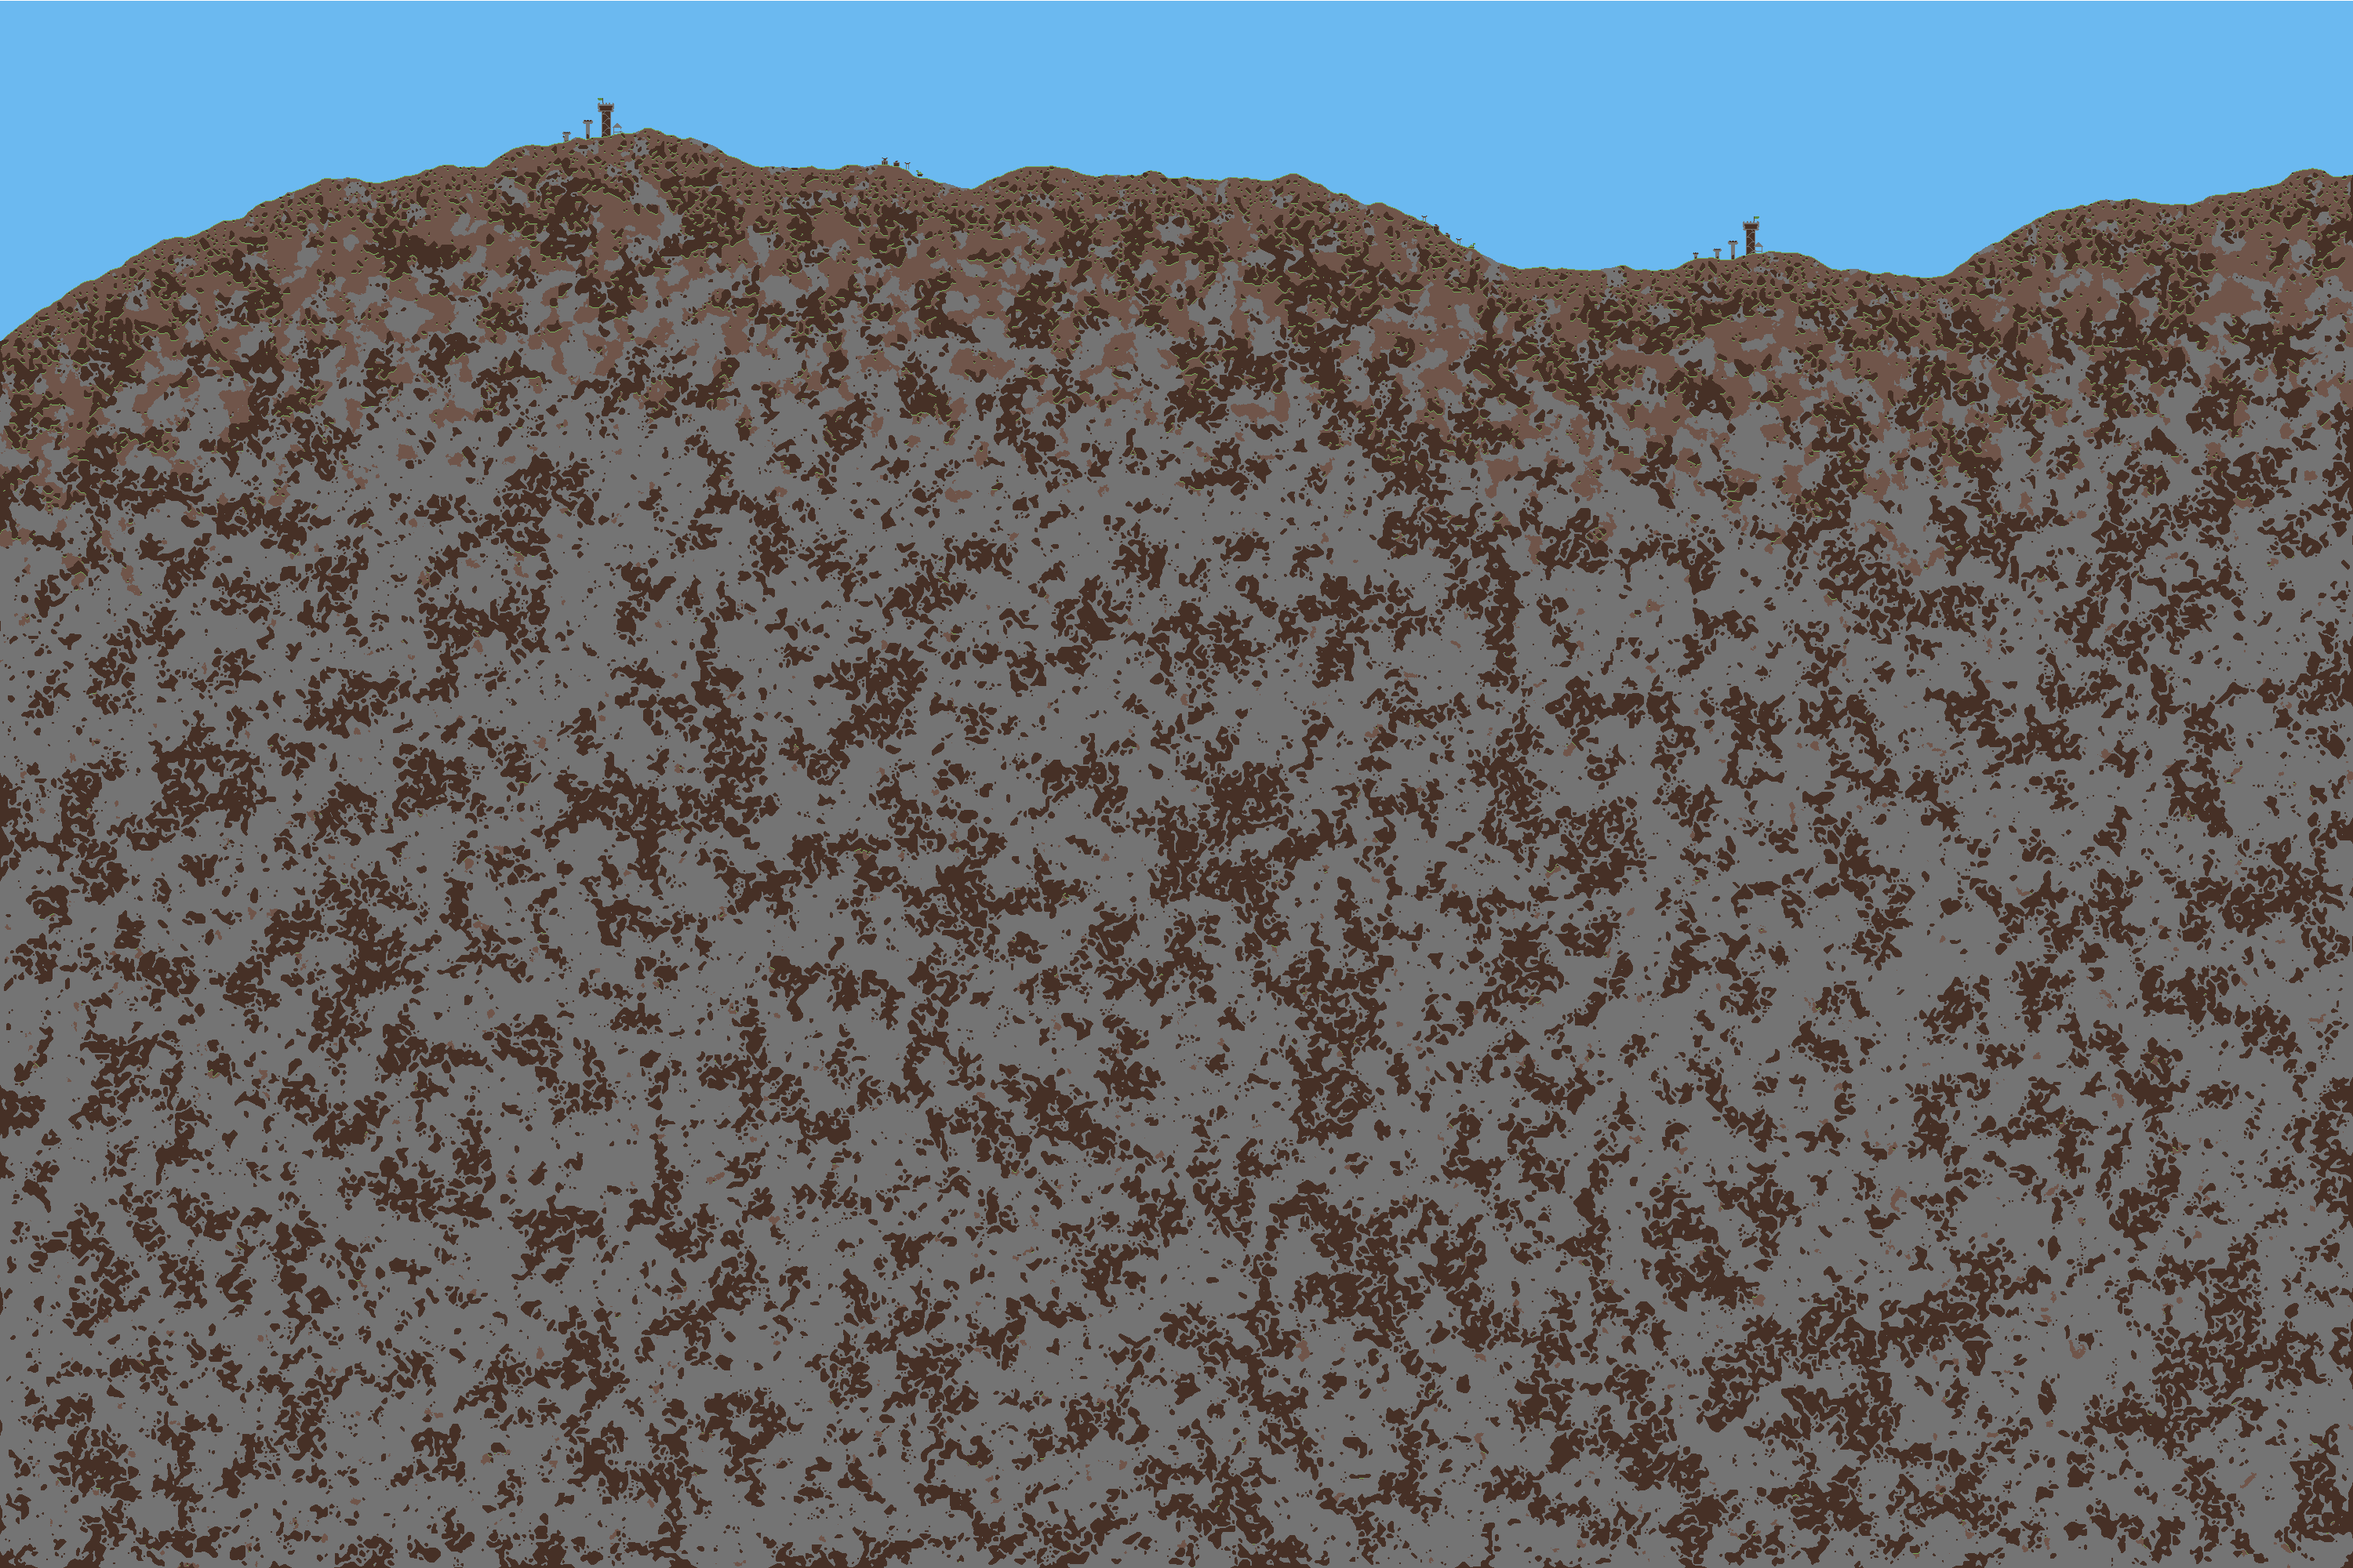
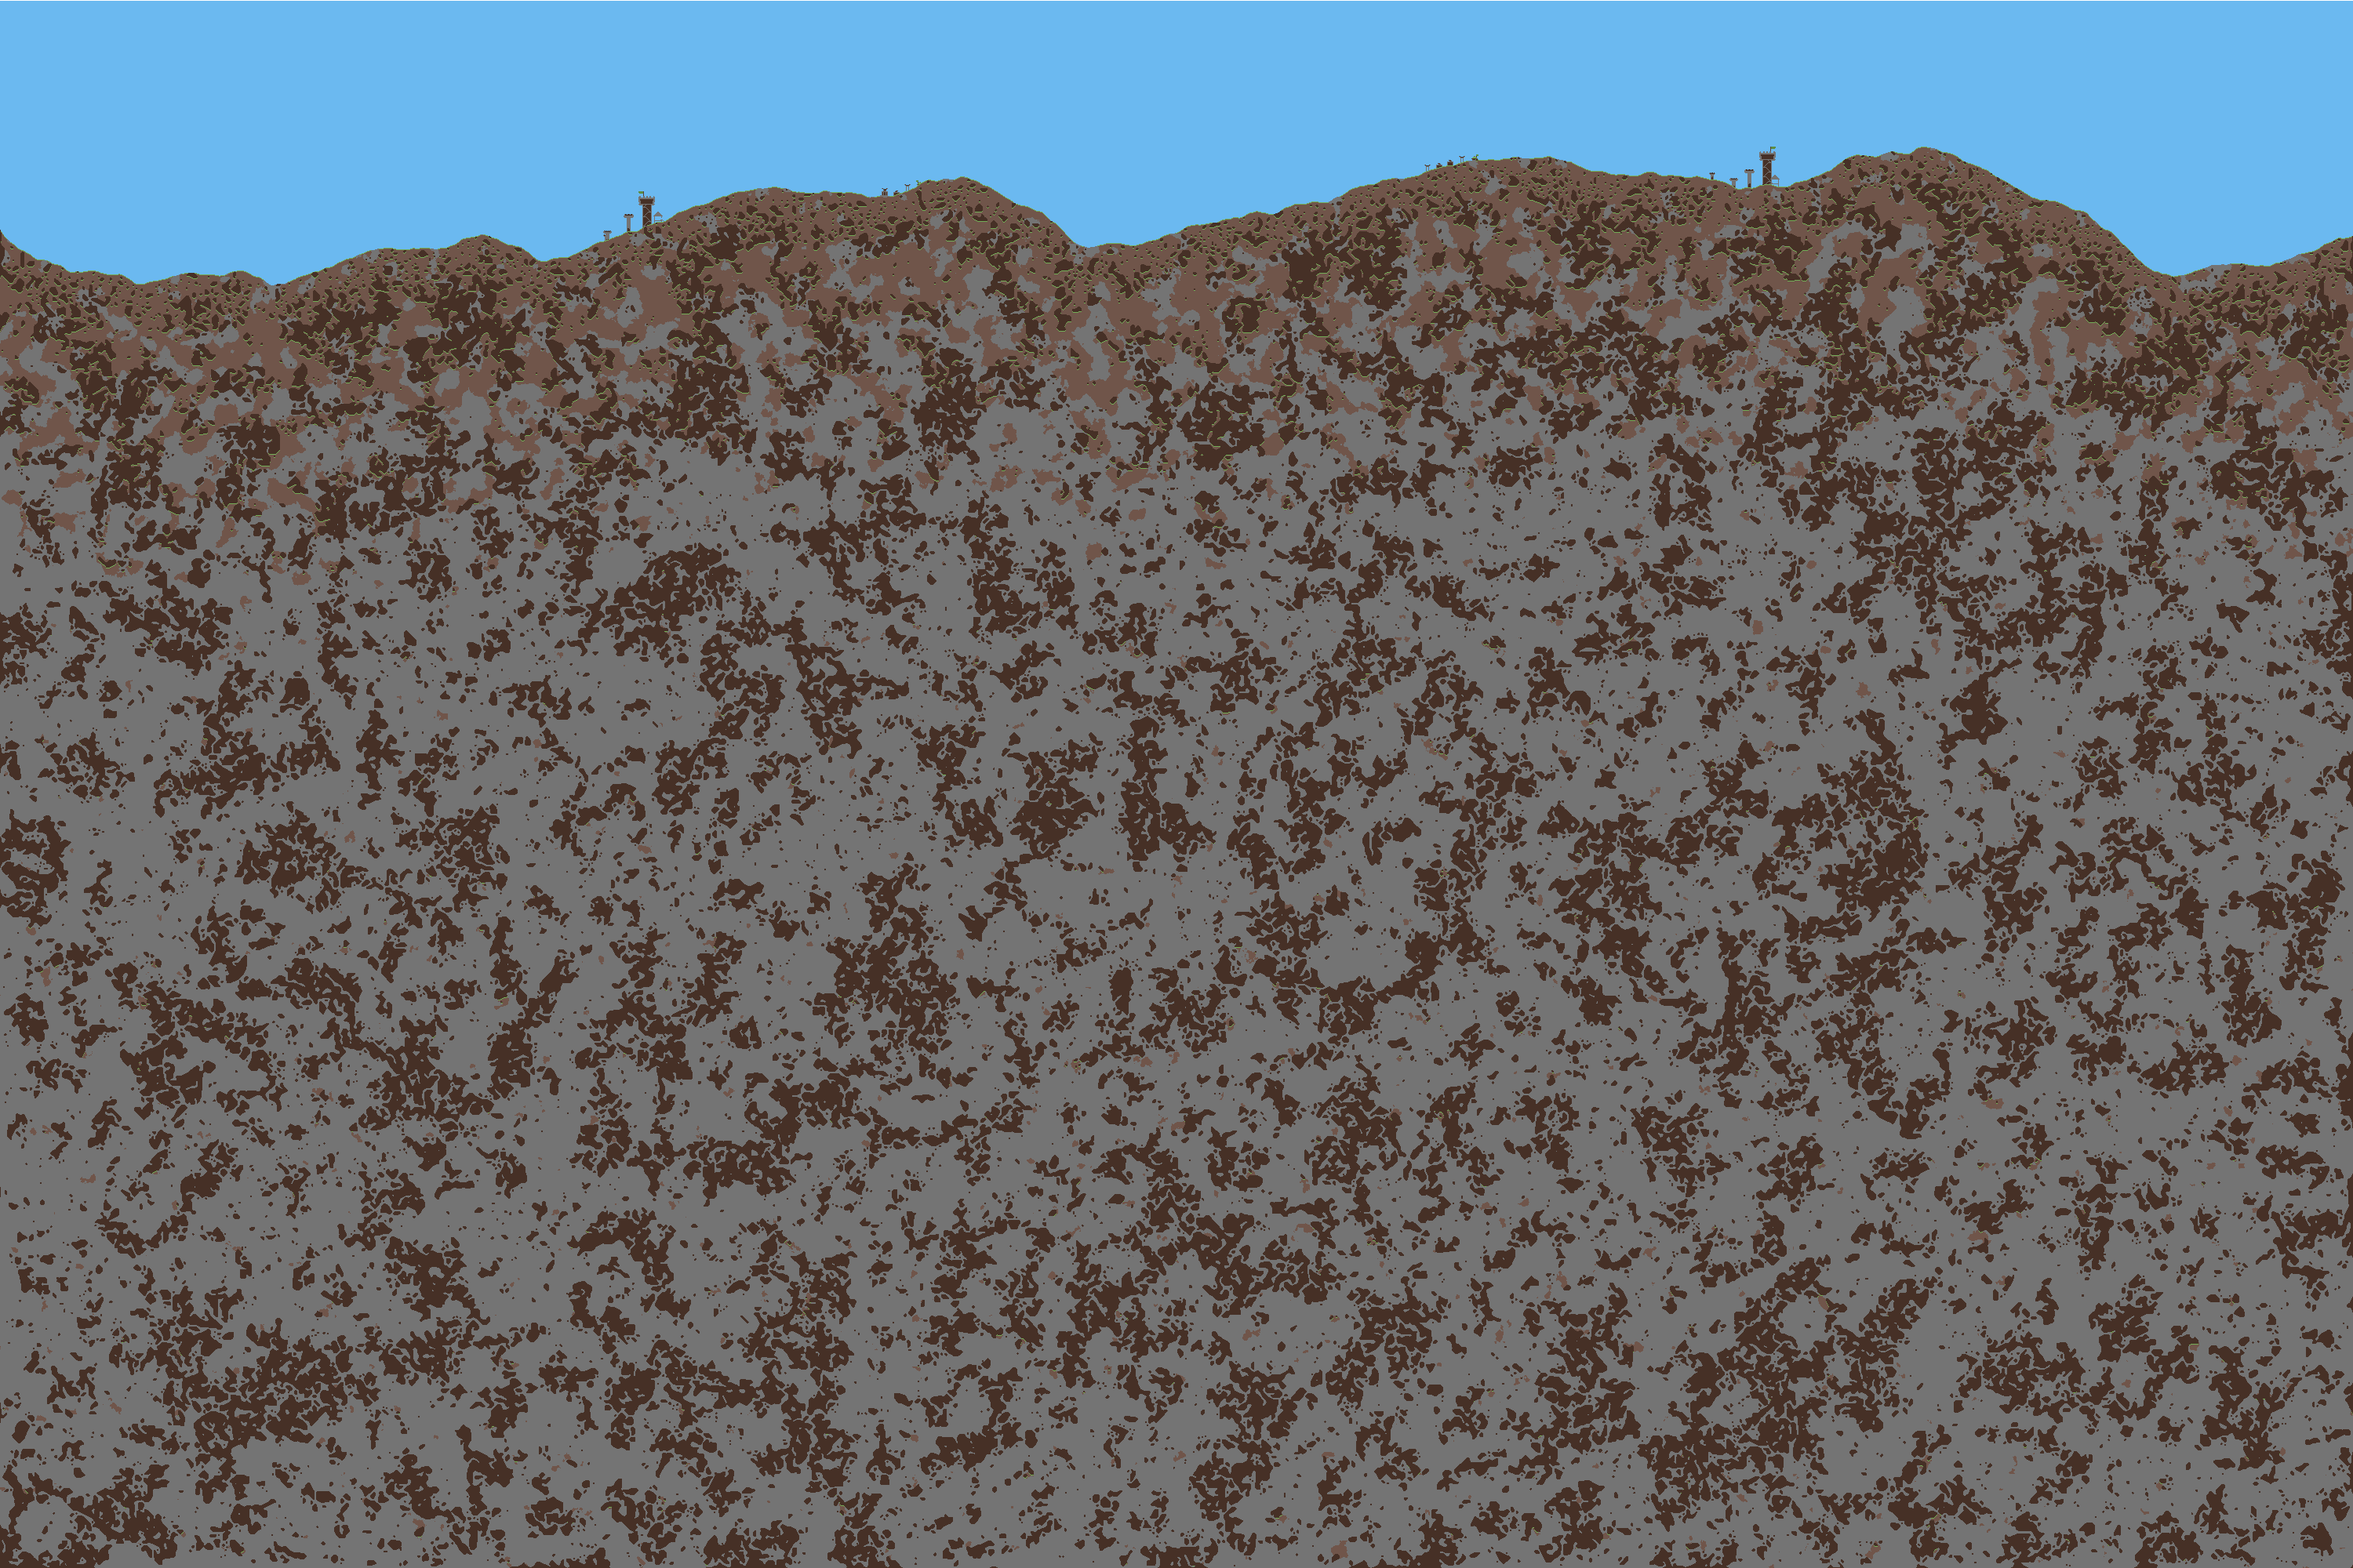
parallax

diff --git a/scene_world.go b/scene_world.go
@@ -11,6 +11,7 @@ func InitializeWorldScene() {
 	Engine.TextureControl.NewTexture("assets/backgrounds/parallax1.png", "parallax1", "pixel")
 	Engine.TextureControl.NewTexture("assets/backgrounds/parallax2.png", "parallax2", "pixel")
 	Engine.TextureControl.NewTexture("assets/backgrounds/parallax3.png", "parallax3", "pixel")
+	Engine.TextureControl.NewTexture("assets/backgrounds/parallax4.png", "parallax4", "pixel")
 
 	backgroundMaterial := Engine.MaterialControl.NewBasicMaterial()
 	backgroundMaterial.DiffuseLevel = 1
@@ -32,11 +33,16 @@ func InitializeWorldScene() {
 	backMat3.DiffuseMap = Engine.TextureControl.GetTexture("parallax3")
 	backMat3.DiffuseMapScale = float32(Config.ScreenWidth) / float32(WorldWidth*BlockSize)
 
+	backMat4 := Engine.MaterialControl.NewBasicMaterial()
+	backMat4.DiffuseLevel = 1
+	backMat4.DiffuseMap = Engine.TextureControl.GetTexture("parallax4")
+	backMat4.DiffuseMapScale = float32(Config.ScreenWidth) / float32(WorldWidth*BlockSize)
+
 	Back1Child = Engine.ChildControl.NewChild2D()
 	Back1Child.AttachMaterial(backMat1)
 	Back1Child.AttachMesh(geometry.NewRectangle())
 	Back1Child.ScaleX = float32(WorldWidth * BlockSize)
-	Back1Child.ScaleY = float32(Config.ScreenHeight) + 100
+	Back1Child.ScaleY = float32(Config.ScreenHeight)
 
 	Back2Child = Engine.ChildControl.NewChild2D()
 	Back2Child.AttachMaterial(backMat2)
@@ -49,6 +55,12 @@ func InitializeWorldScene() {
 	Back3Child.AttachMesh(geometry.NewRectangle())
 	Back3Child.ScaleX = float32(WorldWidth * BlockSize)
 	Back3Child.ScaleY = float32(Config.ScreenHeight)
+
+	Back4Child = Engine.ChildControl.NewChild2D()
+	Back4Child.AttachMaterial(backMat4)
+	Back4Child.AttachMesh(geometry.NewRectangle())
+	Back4Child.ScaleX = float32(WorldWidth * BlockSize)
+	Back4Child.ScaleY = float32(Config.ScreenHeight)
 
 	SkyChild = Engine.ChildControl.NewChild2D()
 	SkyChild.AttachMaterial(backgroundMaterial)
@@ -107,6 +119,7 @@ func InitializeWorldScene() {
 
 	WorldScene.InstanceChild(SkyChild)
 
+	WorldScene.InstanceChild(Back4Child)
 	WorldScene.InstanceChild(Back3Child)
 	WorldScene.InstanceChild(Back2Child)
 	WorldScene.InstanceChild(Back1Child)

diff --git a/main.go b/main.go
@@ -17,6 +17,9 @@ func main() {
 		ScreenHeight = 900
 	}
 
+	//ScreenWidth = 3840
+	//ScreenHeight = 2160
+
 	Config = cmd.NewEngineConfig(ScreenWidth, ScreenHeight, 2)
 
 	Config.ShowFPS = false
@@ -67,8 +70,9 @@ func render(renderer *cmd.Renderer, inputs *input.Input) {
 func renderWorldScene(renderer *cmd.Renderer, inputs *input.Input) {
 	// Render Children
 	renderer.RenderChild(SkyChild)
-	renderer.RenderChildCopies(CloudChild)
+	//renderer.RenderChildCopies(CloudChild)
 
+	renderer.RenderChild(Back4Child)
 	renderer.RenderChild(Back3Child)
 	renderer.RenderChild(Back2Child)
 	renderer.RenderChild(Back1Child)
@@ -115,8 +119,13 @@ func renderWorldScene(renderer *cmd.Renderer, inputs *input.Input) {
 		Back1Child.Y = Player1.PlayerChild.Y - float32(ScreenHeight/2)
 		Back2Child.Y = Player1.PlayerChild.Y - float32(ScreenHeight/2)
 		Back3Child.Y = Player1.PlayerChild.Y - float32(ScreenHeight/2)
+		Back4Child.Y = Player1.PlayerChild.Y - float32(ScreenHeight/2)
 
-		Back1Child.X = (Player1.PlayerChild.X - float32(ScreenWidth/2)) / 0.001
+		// Parallax: Higher divisor = faster movement = appears closer
+		Back1Child.X = (Player1.PlayerChild.X / (WorldWidth * BlockSize / 10000)) / 0.8
+		Back2Child.X = (Player1.PlayerChild.X / (WorldWidth * BlockSize / 10000)) / 0.6
+		Back3Child.X = (Player1.PlayerChild.X / (WorldWidth * BlockSize / 10000)) / 0.3
+		Back4Child.X = (Player1.PlayerChild.X / (WorldWidth * BlockSize / 10000)) / 0.2
 	}
 }
 

diff --git a/player.go b/player.go
@@ -93,7 +93,7 @@ func InitializePlayer() {
 		God:            false,
 		PlayerChild:    PlayerChild,
 		PlayerMaterial: playerMaterial,
-		SpeedX:         4,
+		SpeedX:         5,
 		SpeedY:         20,
 		Gravity:        1.05,
 		NumJumps:       1,

diff --git a/blocks.go b/blocks.go
@@ -219,7 +219,7 @@ func loadBlocks() {
 		},
 		"backdirt": &Block{
 			Material:   backDirtMaterial,
-			LightBlock: 0.05,
+			LightBlock: 0.035,
 			SaveColor:  [3]int{70, 48, 38},
 		},
 		"leaves": &Block{

diff --git a/globals.go b/globals.go
@@ -37,6 +37,7 @@ var CloudChild *child.Child2D
 var Back1Child *child.Child2D
 var Back2Child *child.Child2D
 var Back3Child *child.Child2D
+var Back4Child *child.Child2D
 
 var l lighting.PointLight
 
